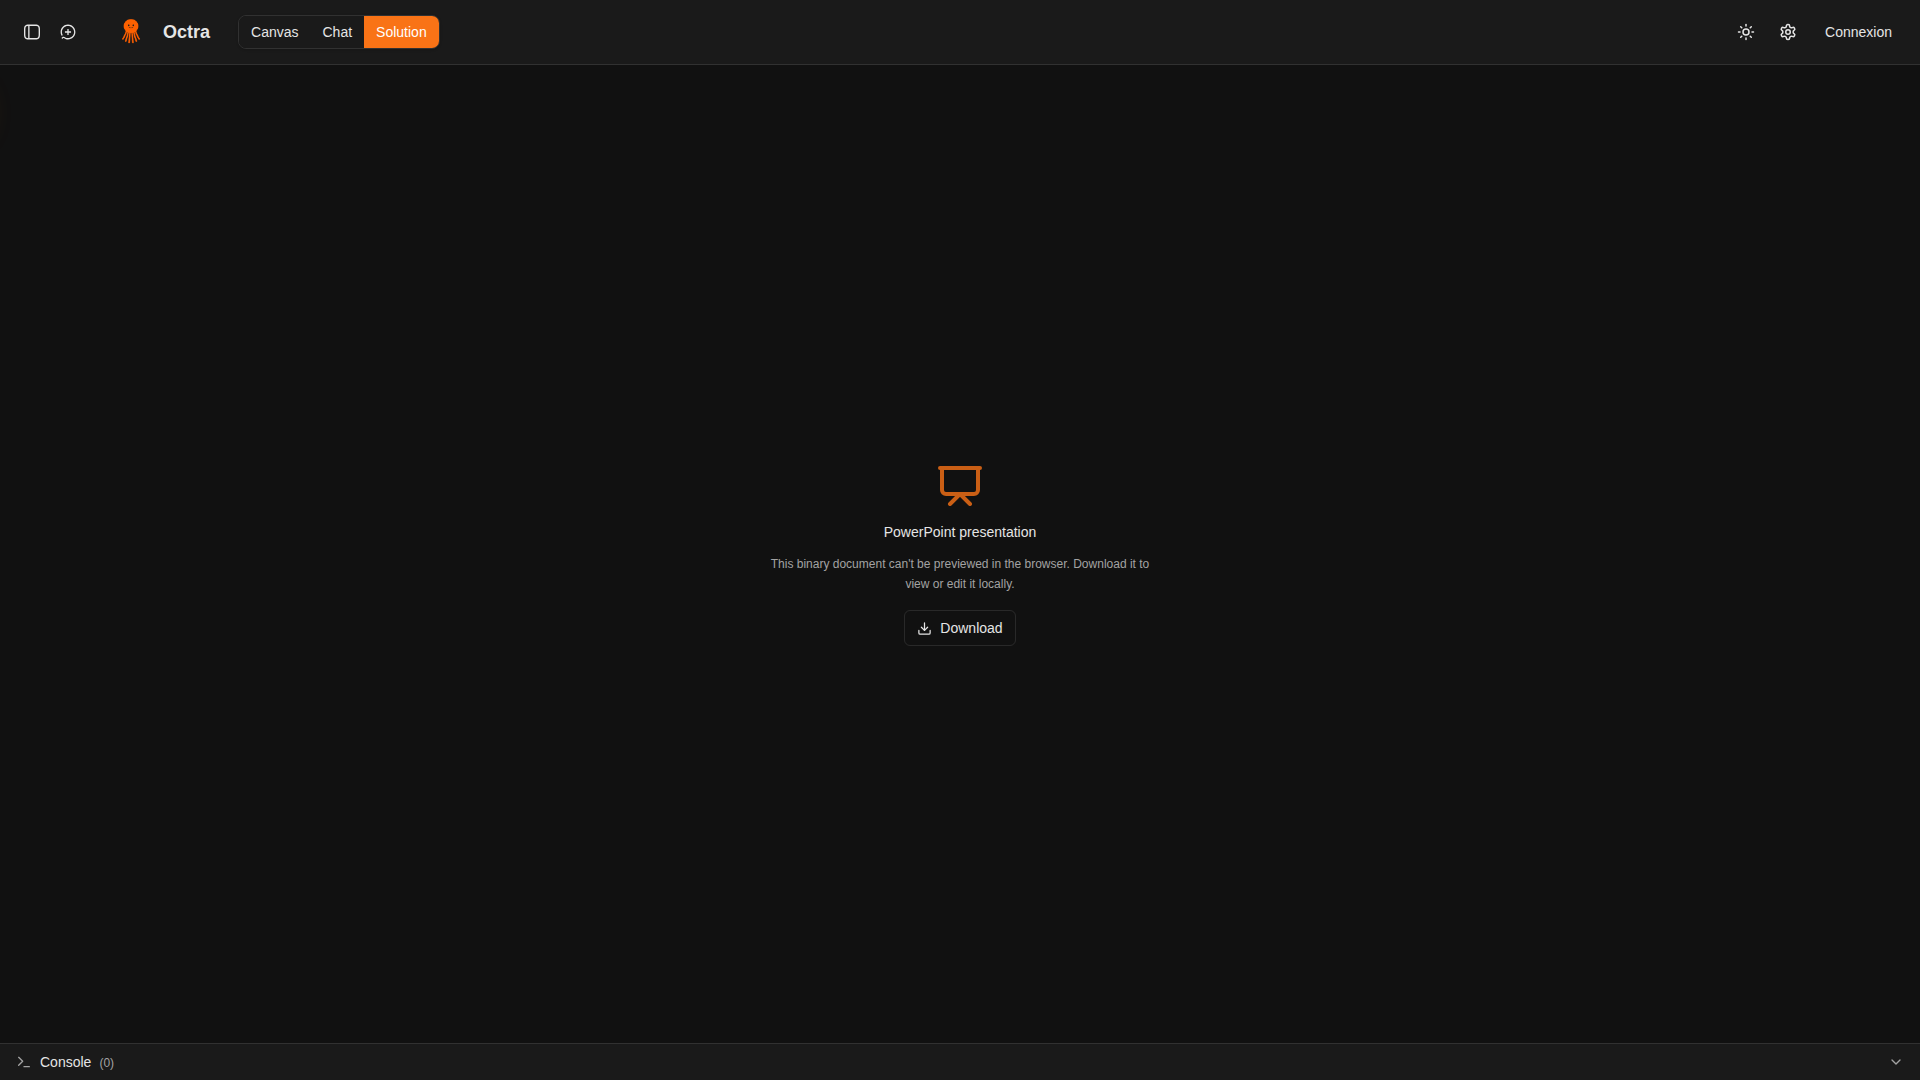
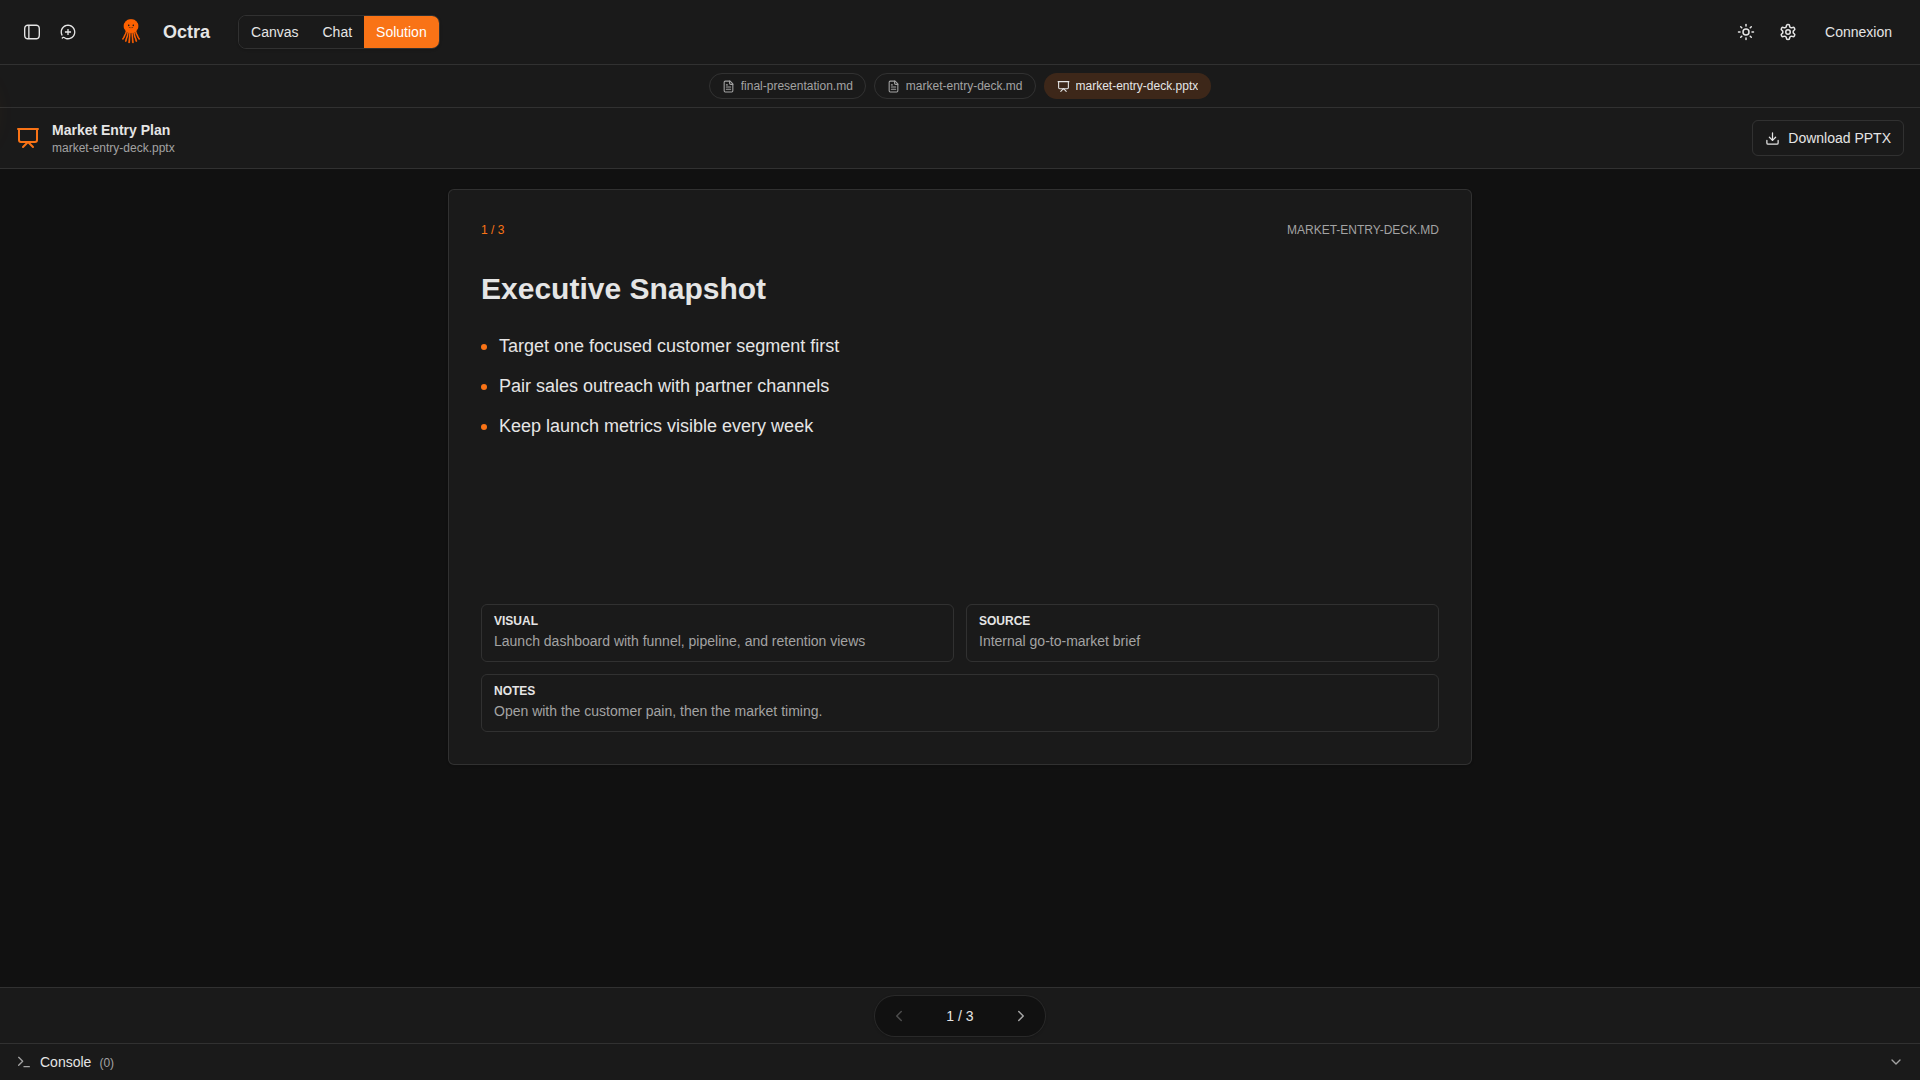
Preview generated presentation decks

diff --git a/frontend/web/src/app/components/SolutionViewer.tsx b/frontend/web/src/app/components/SolutionViewer.tsx
@@ -32,6 +32,7 @@ import {
   isDocumentSolution,
   paginateMarkdown,
 } from '../../lib/markdown';
+import { findPresentationPreviewFile, parsePresentationMarkdown } from '../../lib/presentation';
 import { choosePreferredCodeFilePath } from '../../lib/solutionFiles';
 import '../../styles/markdown.css';
 
@@ -199,6 +200,139 @@ function BinaryPlaceholder({ file }: { file: CodeFile }) {
   );
 }
 
+function PresentationDeckPreview({ file, previewFile }: { file: CodeFile; previewFile: CodeFile }) {
+  const deck = useMemo(() => parsePresentationMarkdown(previewFile.content), [previewFile.content]);
+  const slides = deck.slides.length > 0
+    ? deck.slides
+    : [{ title: deck.title || file.name || 'Presentation', bullets: [], visual: '', sources: [], notes: '' }];
+  const [slideIndex, setSlideIndex] = useState(0);
+  const currentSlide = slides[Math.min(slideIndex, Math.max(0, slides.length - 1))];
+  const downloadUrl = useMemo(() => createBinaryDownloadUrl(file), [file.content, file.encoding, file.path]);
+  const downloadName = file.name || file.path.split('/').filter(Boolean).at(-1) || 'presentation.pptx';
+
+  useEffect(() => {
+    setSlideIndex(0);
+  }, [file.path, previewFile.path]);
+
+  useEffect(() => {
+    if (slideIndex >= slides.length) {
+      setSlideIndex(Math.max(0, slides.length - 1));
+    }
+  }, [slideIndex, slides.length]);
+
+  useEffect(() => {
+    return () => {
+      if (downloadUrl) {
+        URL.revokeObjectURL(downloadUrl);
+      }
+    };
+  }, [downloadUrl]);
+
+  return (
+    <div className="flex h-full min-h-0 flex-col bg-[var(--code-bg)] text-[var(--code-text)]">
+      <div className="flex shrink-0 flex-wrap items-center justify-between gap-3 border-b border-[var(--code-border)] bg-[var(--code-surface)] px-4 py-3">
+        <div className="flex min-w-0 items-center gap-3">
+          <Presentation size={24} className="shrink-0 text-[var(--code-accent)]" />
+          <div className="min-w-0">
+            <div className="truncate text-sm font-semibold">{deck.title || binaryFileLabel(file.path)}</div>
+            <div className="truncate text-xs text-[var(--code-text-muted)]">{file.name}</div>
+          </div>
+        </div>
+        {downloadUrl && (
+          <a
+            href={downloadUrl}
+            download={downloadName}
+            className="inline-flex h-9 shrink-0 items-center gap-2 rounded-md border border-[var(--code-border)] px-3 text-sm font-medium text-[var(--code-text)] transition-colors hover:bg-[var(--code-tree-hover)]"
+          >
+            <Download size={15} />
+            Download PPTX
+          </a>
+        )}
+      </div>
+
+      <div className="min-h-0 flex-1 overflow-auto px-4 py-5 sm:px-6">
+        <div className="mx-auto flex w-full max-w-5xl flex-col gap-4">
+          <section className="aspect-video overflow-auto rounded-md border border-[var(--code-border)] bg-[var(--code-surface)] p-6 shadow-sm sm:p-8">
+            <div className="flex min-h-full flex-col">
+              <div className="flex items-center justify-between gap-3 text-xs font-medium uppercase text-[var(--code-accent)]">
+                <span>{slideIndex + 1} / {slides.length}</span>
+                <span className="truncate text-[var(--code-text-muted)]">{previewFile.name}</span>
+              </div>
+
+              <div className="mt-8 max-w-3xl">
+                <h1 className="text-2xl font-semibold leading-tight text-[var(--code-text)] sm:text-3xl">
+                  {currentSlide.title || deck.title || 'Presentation'}
+                </h1>
+                {currentSlide.bullets.length > 0 && (
+                  <ul className="mt-6 space-y-3 text-base leading-7 text-[var(--code-text)] sm:text-lg">
+                    {currentSlide.bullets.map((bullet, index) => (
+                      <li key={`${bullet}-${index}`} className="flex gap-3">
+                        <span className="mt-3 h-1.5 w-1.5 shrink-0 rounded-full bg-[var(--code-accent)]" />
+                        <span>{bullet}</span>
+                      </li>
+                    ))}
+                  </ul>
+                )}
+              </div>
+
+              {(currentSlide.visual || currentSlide.sources.length > 0 || currentSlide.notes) && (
+                <div className="mt-auto grid gap-3 pt-8 text-sm leading-6 text-[var(--code-text-muted)] sm:grid-cols-2">
+                  {currentSlide.visual && (
+                    <div className="rounded-md border border-[var(--code-border)] px-3 py-2">
+                      <div className="text-xs font-semibold uppercase text-[var(--code-text)]">Visual</div>
+                      <div>{currentSlide.visual}</div>
+                    </div>
+                  )}
+                  {currentSlide.sources.length > 0 && (
+                    <div className="rounded-md border border-[var(--code-border)] px-3 py-2">
+                      <div className="text-xs font-semibold uppercase text-[var(--code-text)]">Source</div>
+                      <div>{currentSlide.sources.join(' | ')}</div>
+                    </div>
+                  )}
+                  {currentSlide.notes && (
+                    <div className="rounded-md border border-[var(--code-border)] px-3 py-2 sm:col-span-2">
+                      <div className="text-xs font-semibold uppercase text-[var(--code-text)]">Notes</div>
+                      <div>{currentSlide.notes}</div>
+                    </div>
+                  )}
+                </div>
+              )}
+            </div>
+          </section>
+        </div>
+      </div>
+
+      {slides.length > 1 && (
+        <div className="flex h-14 shrink-0 items-center justify-center border-t border-[var(--code-border)] bg-[var(--code-surface)]">
+          <div className="flex items-center gap-2 rounded-full border border-[var(--code-border)] bg-[var(--code-bg)] px-2 py-1 shadow-sm">
+            <button
+              type="button"
+              onClick={() => setSlideIndex((value) => Math.max(0, value - 1))}
+              disabled={slideIndex <= 0}
+              aria-label="Previous slide"
+              className="flex h-8 w-8 items-center justify-center rounded-full text-[var(--code-text-muted)] transition-colors hover:bg-[var(--code-tree-hover)] hover:text-[var(--code-text)] disabled:cursor-not-allowed disabled:opacity-40 disabled:hover:bg-transparent"
+            >
+              <ChevronLeft size={18} />
+            </button>
+            <span className="min-w-[74px] text-center text-sm font-medium tabular-nums text-[var(--code-text)]">
+              {slideIndex + 1} / {slides.length}
+            </span>
+            <button
+              type="button"
+              onClick={() => setSlideIndex((value) => Math.min(slides.length - 1, value + 1))}
+              disabled={slideIndex >= slides.length - 1}
+              aria-label="Next slide"
+              className="flex h-8 w-8 items-center justify-center rounded-full text-[var(--code-text-muted)] transition-colors hover:bg-[var(--code-tree-hover)] hover:text-[var(--code-text)] disabled:cursor-not-allowed disabled:opacity-40 disabled:hover:bg-transparent"
+            >
+              <ChevronRight size={18} />
+            </button>
+          </div>
+        </div>
+      )}
+    </div>
+  );
+}
+
 function TreeRows({
   nodes,
   depth,
@@ -299,6 +433,12 @@ export function SolutionViewer() {
   const activeFile = activePath ? filesByPath.get(activePath) ?? null : null;
   const activeIsMarkdown = activeFile ? isMarkdownPath(activeFile.path) : false;
   const activeIsBinary = activeFile ? isBinaryPath(activeFile.path) : false;
+  const presentationPreviewFile = useMemo(
+    () => activeFile && activeFile.path.toLowerCase().endsWith('.pptx')
+      ? findPresentationPreviewFile(codeFiles, activeFile.path)
+      : null,
+    [activeFile, codeFiles],
+  );
   // A document solution (research report, generated document, presentation) gets
   // a clean reader — no explorer or tabs — so a regular user just reads the text.
   const documentMode = useMemo(() => isDocumentSolution(codeFiles.map((file) => file.path)), [codeFiles]);
@@ -489,7 +629,11 @@ export function SolutionViewer() {
         <div ref={readerRef} className="min-h-0 flex-1 overflow-auto">
           {activeFile ? (
             activeIsBinary ? (
-              <BinaryPlaceholder file={activeFile} />
+              presentationPreviewFile ? (
+                <PresentationDeckPreview file={activeFile} previewFile={presentationPreviewFile} />
+              ) : (
+                <BinaryPlaceholder file={activeFile} />
+              )
             ) : (
               <article className="markdown-preview mx-auto w-full max-w-[820px] px-6 py-10 sm:px-10">
                 <ReactMarkdown remarkPlugins={[remarkGfm]}>{pages[currentPage] ?? ''}</ReactMarkdown>
@@ -646,7 +790,11 @@ export function SolutionViewer() {
               </div>
               <div className="min-h-0 flex-1">
                 {activeIsBinary ? (
-                  <BinaryPlaceholder file={activeFile} />
+                  presentationPreviewFile ? (
+                    <PresentationDeckPreview file={activeFile} previewFile={presentationPreviewFile} />
+                  ) : (
+                    <BinaryPlaceholder file={activeFile} />
+                  )
                 ) : renderAsPreview ? (
                   <div className="markdown-preview h-full overflow-auto px-6 py-5">
                     <ReactMarkdown remarkPlugins={[remarkGfm]}>{displayContent}</ReactMarkdown>

diff --git a/frontend/web/src/lib/presentation.ts b/frontend/web/src/lib/presentation.ts
@@ -1,0 +1,178 @@
+export interface PresentationPreviewFile {
+  path: string;
+  content: string;
+  encoding?: string;
+}
+
+export interface PresentationSlide {
+  title: string;
+  bullets: string[];
+  visual: string;
+  sources: string[];
+  notes: string;
+}
+
+export interface PresentationDeck {
+  title: string;
+  slides: PresentationSlide[];
+}
+
+const MARKDOWN_EXTENSION = /\.(md|markdown|mdx)$/i;
+
+function stripExtension(path: string): string {
+  return path.replace(/\.[^/.]+$/, '');
+}
+
+function fileName(path: string): string {
+  return path.split('/').filter(Boolean).at(-1) || path;
+}
+
+export function findPresentationPreviewFile<T extends PresentationPreviewFile>(
+  files: T[],
+  pptxPath: string,
+): T | null {
+  if (!/\.pptx$/i.test(pptxPath)) return null;
+
+  const markdownFiles = files.filter((file) =>
+    MARKDOWN_EXTENSION.test(file.path) &&
+    file.encoding !== 'base64' &&
+    typeof file.content === 'string' &&
+    file.content.trim() !== '',
+  );
+  if (markdownFiles.length === 0) return null;
+
+  const pptxBase = stripExtension(pptxPath).toLowerCase();
+  const exact = markdownFiles.find((file) => stripExtension(file.path).toLowerCase() === pptxBase);
+  if (exact) return exact;
+
+  const pptxName = fileName(pptxBase);
+  const sameName = markdownFiles.find((file) => fileName(stripExtension(file.path)).toLowerCase() === pptxName);
+  if (sameName) return sameName;
+
+  return markdownFiles.find((file) => /final-presentation\.(md|markdown|mdx)$/i.test(file.path)) ??
+    markdownFiles.find((file) => /(presentation|deck|slides)/i.test(file.path)) ??
+    null;
+}
+
+function emptySlide(title = ''): PresentationSlide {
+  return {
+    title,
+    bullets: [],
+    visual: '',
+    sources: [],
+    notes: '',
+  };
+}
+
+function splitStructuredLine(line: string): [string, string] | null {
+  const index = line.indexOf(':');
+  if (index < 0) return null;
+
+  const key = line.slice(0, index).trim().toLowerCase();
+  const value = line.slice(index + 1).trim();
+  switch (key) {
+    case 'visual':
+    case 'visual direction':
+    case 'image':
+    case 'image idea':
+    case 'illustration':
+    case 'source':
+    case 'sources':
+      return [key, value];
+    default:
+      return null;
+  }
+}
+
+function applyStructuredLine(slide: PresentationSlide, line: string): boolean {
+  const structured = splitStructuredLine(line);
+  if (!structured) return false;
+
+  const [key, value] = structured;
+  if (!value) return true;
+
+  if (key === 'source' || key === 'sources') {
+    slide.sources.push(value);
+  } else {
+    slide.visual = value;
+  }
+  return true;
+}
+
+function parseMarkdownImage(line: string): string {
+  const match = line.match(/!\[([^\]]*)\]\(([^)]+)\)/);
+  if (!match) return '';
+
+  const alt = match[1].trim();
+  const url = match[2].trim();
+  if (alt && url) return `${alt} - ${url}`;
+  return alt || url;
+}
+
+export function parsePresentationMarkdown(markdown: string): PresentationDeck {
+  const deck: PresentationDeck = { title: '', slides: [] };
+  let current: PresentationSlide | null = null;
+
+  const flush = () => {
+    if (!current) return;
+    if (current.title || current.bullets.length > 0 || current.visual || current.sources.length > 0 || current.notes) {
+      deck.slides.push(current);
+    }
+    current = null;
+  };
+
+  const ensureSlide = () => {
+    if (!current) current = emptySlide(deck.title);
+    return current;
+  };
+
+  for (const raw of (markdown || '').split('\n')) {
+    const line = raw.trim();
+    if (!line) continue;
+
+    if (line.startsWith('## ')) {
+      flush();
+      current = emptySlide(line.slice(3).trim());
+      continue;
+    }
+
+    if (line.startsWith('# ')) {
+      deck.title = line.slice(2).trim();
+      continue;
+    }
+
+    if (line.startsWith('- ') || line.startsWith('* ')) {
+      const slide = ensureSlide();
+      const value = line.slice(2).trim();
+      if (!applyStructuredLine(slide, value)) {
+        slide.bullets.push(value);
+      }
+      continue;
+    }
+
+    if (splitStructuredLine(line)) {
+      applyStructuredLine(ensureSlide(), line);
+      continue;
+    }
+
+    if (line.startsWith('![')) {
+      const visual = parseMarkdownImage(line);
+      if (visual) ensureSlide().visual = visual;
+      continue;
+    }
+
+    if (line.startsWith('> ')) {
+      const slide = ensureSlide();
+      const note = line.slice(2).trim();
+      slide.notes = slide.notes ? `${slide.notes} ${note}` : note;
+    }
+  }
+
+  flush();
+
+  if (deck.slides.length === 0 && deck.title) {
+    deck.slides.push(emptySlide(deck.title));
+  }
+
+  return deck;
+}
